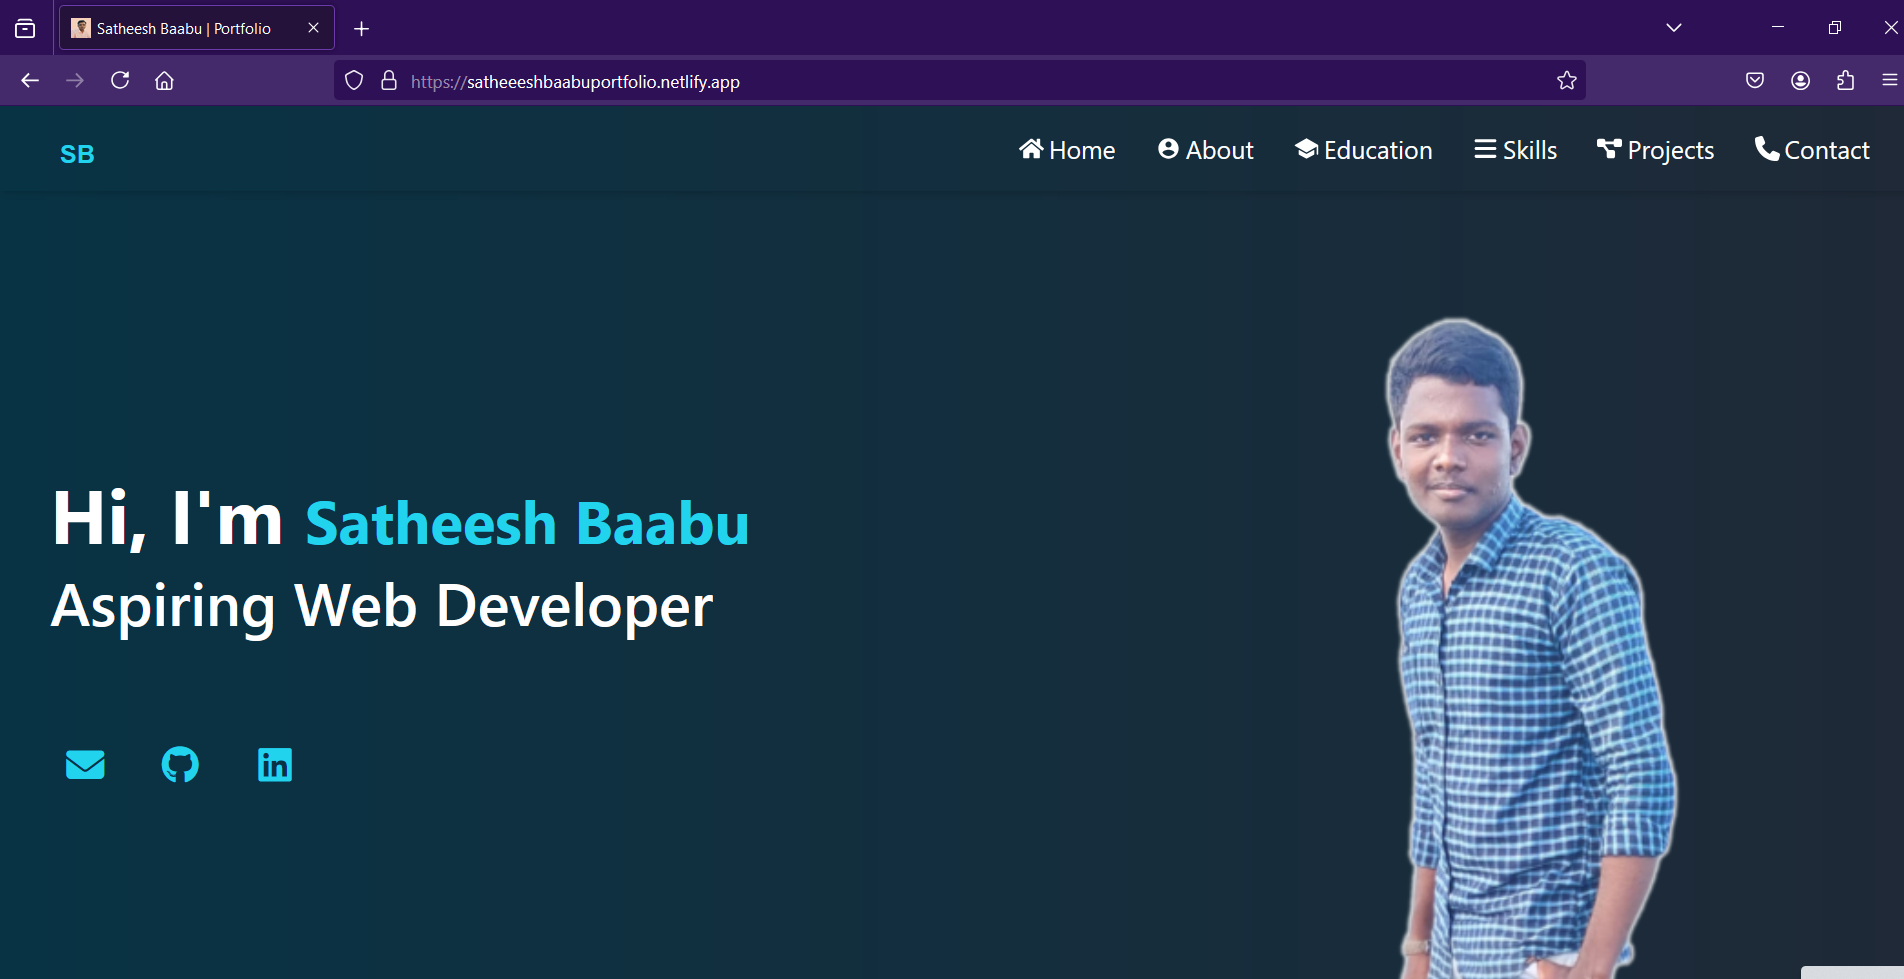
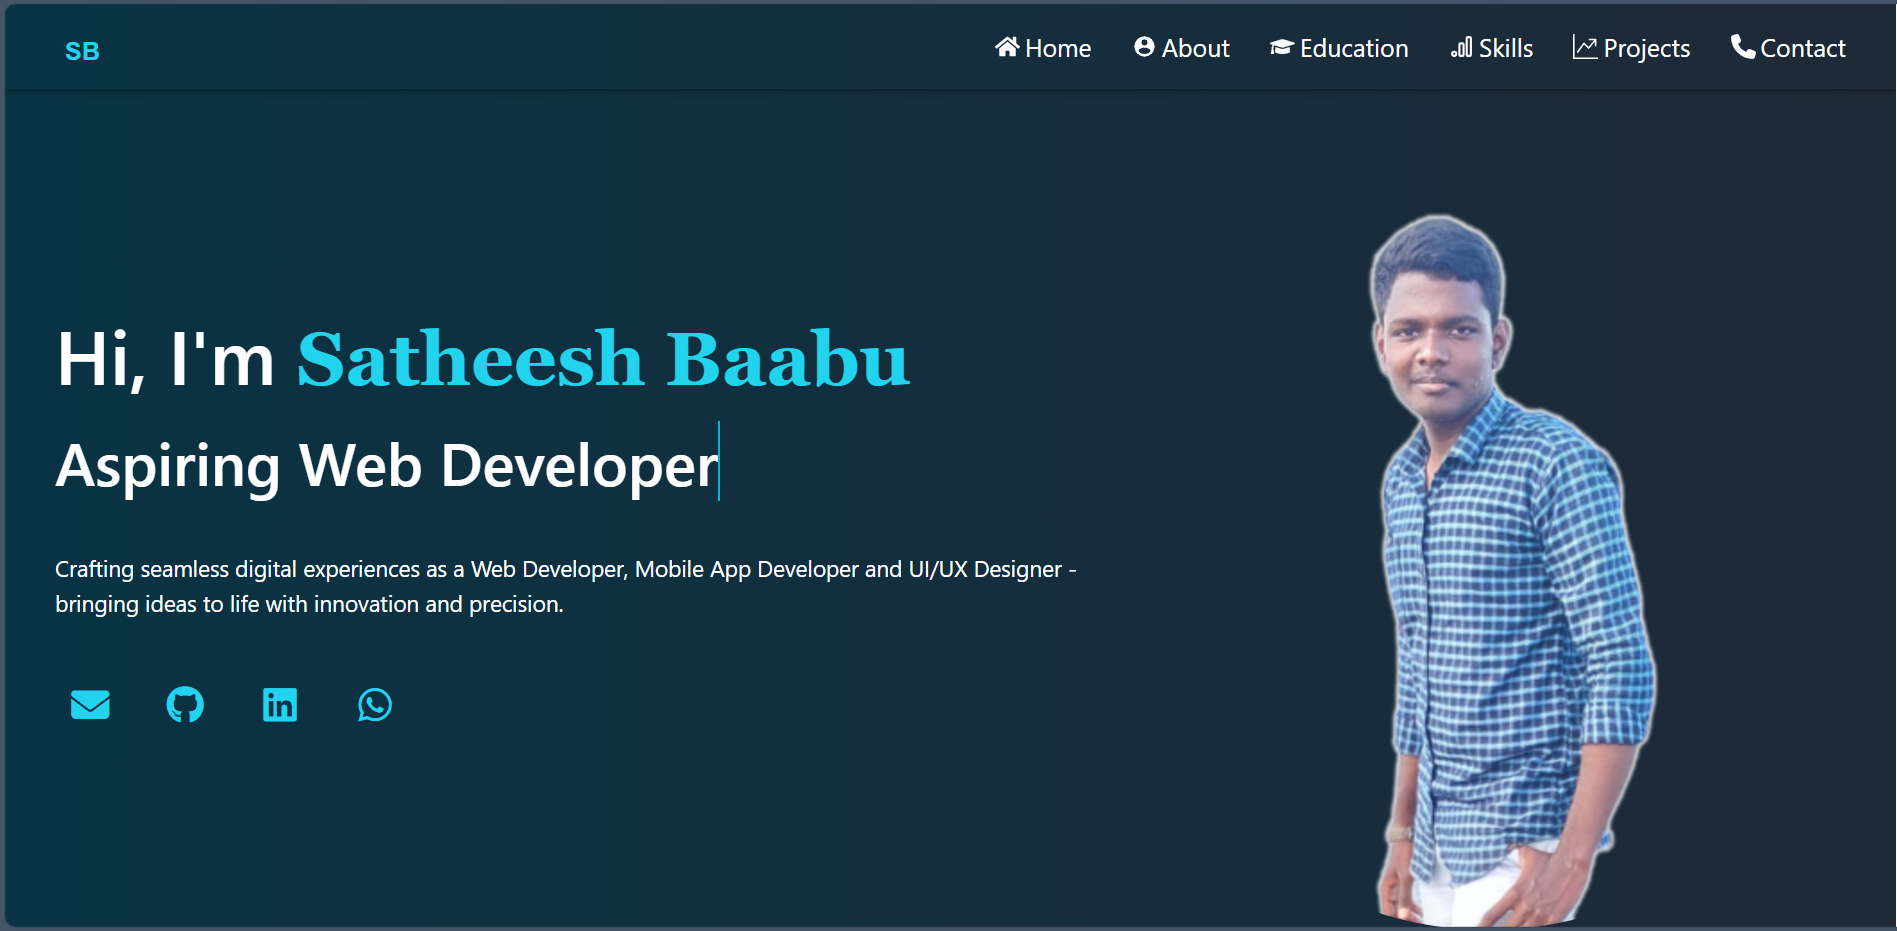
Content changes

diff --git a/src/Components/ImageCard.jsx b/src/Components/ImageCard.jsx
@@ -13,28 +13,34 @@ function ImageCard(data) {
     };
 
     return (
-        <>
-        <div
-            className={`bg-transparent shadow-md rounded-lg overflow-hidden relative border border-gray-800 ${isHovered ? 'scale-105 ease-in-out duration-100' : ''
-                }`}
-            onMouseEnter={handleMouseEnter}
-            onMouseLeave={handleMouseLeave}
-        >
-            <div className={`${isHovered ? 'opacity-20  ' : ''}`}>
-            <img src={data.image} alt="Image" className="object-contain lg:h-full h-60 w-full" />
-            </div>
-            <div className={`absolute bottom-0 left-0 pt-10 lg:pt-7 xl:pt-28 w-full h-full p-4 bg-gradient-to-t from-cyan-500 to-transparent text-white ${isHovered ? 'animate-bottom opacity-100 ease-in-out duration-1000' : 'opacity-0'}`}>
-            
-                <p className="md:text-md lg:text-xl text-md">{data.description}</p>
-                <div className="flex my-5">
-                    <a href={data.demoLink} className="text-lg text-cyan-100 mr-4 hover:underline"><i className="fa-solid fa-link"></i> Demo Link </a>
-                    <a href={data.githubLink} className="text-lg text-cyan-100 mr-4 hover:underline"><i className="fa-brands fa-github"></i> Github</a>
+        <div className=''>
+            <div
+                className={`bg-transparent shadow-md rounded-lg overflow-hidden relative border border-gray-800 ${isHovered ? 'scale-105 ease-in-out duration-100' : ''
+                    }`}
+                onMouseEnter={handleMouseEnter}
+                onMouseLeave={handleMouseLeave}>
+                <div className={`${isHovered ? 'opacity-20' : ''}`}>
+                    <img src={data.image} alt="Image" className="object-contain lg:h-full h-60 w-full" />
                 </div>
-                <h2 className="md:text-4xl xl:text-5xl text-2xl sm:text-3xl font-bold">{data.title}</h2>
+                <div className={`absolute bottom-0 left-0 pt-10 lg:pt-7 xl:pt-28 w-full h-full p-4 bg-gradient-to-t from-cyan-500 to-transparent text-white ${isHovered ? 'animate-bottom opacity-100 ease-in-out duration-1000' : 'opacity-0'}`}>
+
+                    <p className="md:text-md lg:text-xl text-md">{data.description}</p>
+                    <div className="flex my-5">
+                        <a href={data.demoLink} target='_blank' className="text-lg text-cyan-100 mr-4 hover:underline"><i className="fa-solid fa-link"></i> Demo Link </a>
+                        <a href={data.githubLink} target='_blank'  className="text-lg text-cyan-100 mr-4 hover:underline"><i className="fa-brands fa-github"></i> Github</a>
+                    </div>
+                    <h2 className="md:text-4xl xl:text-5xl text-2xl sm:text-3xl font-bold">{data.title}</h2>
+                </div>
             </div>
-            {/* <h2 className="text-lg font-bold text-center p-5">{data.title}</h2> */}
+            <div>
+                <div className={`${isHovered ? 'hidden' : 'text-3xl font-bold text-white mt-2 "'}`}>{data.title}</div>
+                <div className="flex flex-wrap gap-2 mt-4">
+                    {data.tech.map((tag, index) => (
+                    <span key={index} className="text-sm bg-gray-800 text-gray-300 px-3 py-1 rounded-full">{tag}</span>))
+                    }
+                </div> 
+            </div>
         </div>
-        </>
     );
 }
 

diff --git a/src/pages/About.jsx b/src/pages/About.jsx
@@ -3,7 +3,7 @@ import Profile from '../assets/SatheeshBaabu.png'
 import Button from '../Components/Button'
 function About() {
     return (
-        <div className='px-12 bg-gradient-to-r from-cyan-950 to-gray-800 md:h-max w-full pt-10' id="about">
+        <div className='px-12 bg-gradient-to-r from-cyan-950 to-gray-800 md:h-max w-full md:pt-20 ' id="about">
             <div className='md:hidden pt-10'>
             <h1 className='text-4xl mb-10 font-medium font-serif text-cyan-400'>About <span className='text-white'>ME</span></h1>
             </div>
@@ -19,7 +19,12 @@ function About() {
                     <h1 className='text-5xl mb-10 font-medium font-serif text-cyan-400 md:block hidden'>About <span className='text-white'>ME</span></h1>
 
                     {/* <h1 className='text-5xl text-cyan-400 md:block hidden mb-10'>About Me</h1> */}
-                    <p className='text-white text-justify indent-20 mb-10'>Lorem ipsum dolor sit, amet consectetur adipisicing elit. Dolor voluptas odio nulla facere, repellat consequuntur hic. Totam unde maxime iusto eveniet libero. Error non rem commodi nam odio ab hic. Lorem ipsum dolor sit, amet consectetur adipisicing elit. Fuga enim, rerum dolores eum eligendi inventore et beatae, excepturi in cum facilis repellendus iste praesentium magnam aut asperiores, ipsam fugiat hic. Lorem ipsum dolor sit amet consectetur, adipisicing elit. Harum reiciendis, sapiente possimus hic in omnis, tempora fuga minus iure velit consectetur, fugiat quas eaque reprehenderit natus ad sed unde maiores.</p>
+                    <p className='text-white text-justify indent-20 '>Hello, I’m Satheesh Baabu, an aspiring Web Developer with a passion for crafting functional and visually engaging digital solutions. I am currently pursuing final year<b className='text-lg'> B.Sc  Computer Science</b> at Ayya Nadar Janaki Ammal College, Sivakasi, and have gained hands-on experience through internships and projects that have sharpened my technical and collaborative skills.</p>
+                    <h1 className='text-white text-lg'>My Journey :</h1>
+                    <p className='text-white text-justify indent-20 mb-3'>My academic journey began with strong foundations in programming and problem-solving, as reflected in my achievements in<b> SSLC (84%)</b> and <b>HSC (92%)</b>. Alongside formal education, I completed a Diploma in Computer Hardware and honed my skills in web development.</p>
+                    <p className='text-white text-justify indent-20 mb-3'>I specialize in front-end and back-end development using HTML, CSS, JavaScript, C, Java and the<b> MERN stack (MongoDB, Express.js, React.js, Node.js)</b>. I am also skilled in version control systems like Git & GitHub and have experience with databases like MySQL and MongoDB.</p>
+                    <h1 className='text-white text-lg'>What Drive Me :</h1>
+                    <p className='text-white text-justify indent-20 mb-10'>I am deeply motivated to collaborate with dynamic teams, contribute to innovative projects, and grow as a developer by learning new technologies. My mission is to build web and mobile applications that make a meaningful impact. Feel free to explore my portfolio and connect with me to know more about my journey and work! 😊</p>
                     <Button content={"Resume >"}/>
                 </div>
             </div>

diff --git a/src/pages/Projects.jsx b/src/pages/Projects.jsx
@@ -3,31 +3,47 @@ import ImageCard from '../Components/ImageCard';
 function Projects() {
   const projectsData = [
     {
+        title: 'Simple Calculator',
+        description: 'Simple Calculator using Javascript.',
+        demoLink: 'https://satheeshbaabucalc.netlify.app/',
+        githubLink: 'https://github.com/Satheesh-Baabu/Simple-Calculator',
+        image: "/Calculator.png",
+        tech:["HTML","CSS","JavaScript"],
+    },
+    {
+      title: 'Old Portfolio',
+      description: 'Building a basic portfolio at the time of learing HTML, CSS and animation effects without responsive layout.',
+      demoLink: 'https://satheeshbaabuportfolio.netlify.app/',
+      githubLink: 'https://github.com/Satheesh-Baabu/portfolio-old',
+      image:"/oldportfolilo.png" ,
+      tech:["HTML","CSS","Animation Effects"],
+    },
+    {
       title: 'Portfolio',
       description: 'Explore my accomplished portfolio projects, showcasing expertise and creativity in one click.',
       demoLink: 'https://satheeeshbaabuportfolio.netlify.app/',
       githubLink: 'https://github.com/Satheesh-Baabu/Portfolio/',
       image:"/portfolio.png" ,
+      tech:[
+        "React.js",
+        "Tailwind CSS",
+        "JavaScript","Responsive"
+    ],
     },
     {
-      title: 'Website V Print Tech',
-      description: 'Discover my expertise in one click with the website for the V Print Tech Company.',
+      title: 'V Print Tech Website',
+      description: `"V Print Tech" is a printing offset website developed using the MERN stack in collaboration with Sudhakar.`,
       demoLink: 'https://vprinttech.netlify.app/',
       githubLink: 'https://github.com/Satheesh-Baabu/InternshipFrontend/',
       image: "/vprint.png",
+      tech:["React.js","Node.js","Express.js","MongoDB","Tailwind CSS"]
     },
-    // {
-    //   title: 'Calculator',
-    //   description: 'Discover my expertise in one click with my weather app, showcasing creativity and skill in delivering accurate forecasts.',
-    //   demoLink: 'https://vprinttech.netlify.app/',
-    //   githubLink: 'https://github.com/Satheesh-Baabu/InternshipFrontend/',
-    //   image: "/vprint.png",
-    // },
+  
     // Add more projects here
   ];
   return (
     <div id="projects" className='h-max bg-gradient-to-r from-cyan-950 to-gray-800 w-full pt-10 px-12'>
-      <h1 className='text-4xl md:text-5xl pb-10 font-medium font-serif text-white pt-12'>My Projects</h1>
+      <h1 className='text-4xl md:text-5xl pb-10 font-medium font-serif text-white pt-12'><span className='text-cyan-500'>My</span> Projects</h1>
       <div className="grid gap-7 grid-cols-1 lg:grid-cols-2">
             {projectsData.map((project) => (
               <ImageCard key={project.title} {...project}/>

diff --git a/src/Components/EducationField.jsx b/src/Components/EducationField.jsx
@@ -33,8 +33,7 @@ const EducationField = () => {
                                     S.H.N.V. Matriculation Higher Secondary School, Sivakasi.
                                 </p>
                                 <p className="text-gray-100 mb-4">
-                                    Completed my Secondary School with 85%.
-                                </p>
+                                Successfully completed with an <b>84%</b> score, building a strong foundation in academics and problem-solving skills                                </p>
                             </div>
 
                         </div>
@@ -64,7 +63,7 @@ const EducationField = () => {
                             S.H.N.V. Matriculation Higher Secondary School, Sivakasi.
                         </p>
                         <p className="text-gray-100 mb-4">
-                            Completed my High Secondary School with Major in Computer Science, Maths, Physics and Chemistry.
+                        Accomplished higher secondary studies with <b>92%</b>, excelling in core subjects like <b>Computer Science, Mathematics, Physics, and Chemistry</b>, highlighting a passion for technology and science.
                         </p>
 
                     </div>
@@ -85,7 +84,7 @@ const EducationField = () => {
                     <div className="absolute border-t-2 w-10 right-0 top-[50%] border-cyan-500 md:block hidden" />
                     <div className="flex justify-center align-center  h-full hover:scale-105 ease-out duration-500">
                         <img
-                            src="/collegeq.svg" // replace with your image path
+                            src="/collegeq.svg" 
                             alt="Noimage"
                             className="rounded-lg" width={500}
                         />
@@ -103,7 +102,7 @@ const EducationField = () => {
                                 Ayya Nadar Janaki Ammal College, Sivakasi.
                                 </p>
                                 <p className="text-gray-100 mb-4">
-                                Pursuing a Bachelor’s degree in Computer Science, specializing in software engineering and development.
+                                Currently pursuing a Bachelor’s degree in Computer Science, gaining expertise in programming, algorithms, data structures, and modern technologies to build innovative solutions.
                                 </p>
                             </div>
 

diff --git a/src/pages/Skills.jsx b/src/pages/Skills.jsx
@@ -5,13 +5,19 @@ function Skills() {
   const skillsdata = [
     {
       title: 'Programming Languages & Scripts',
-      image:["/html.svg","/css.svg","/js.svg","/java.svg",] ,
-      names:["HTML","CSS","JavaScript","Java"],
+      image:["c.svg","/java.svg","/html.svg","/css.svg","/js.svg",] ,
+      names:["C","Java","HTML","CSS","JavaScript",],
     },
     {
       title: 'Frameworks and Libraries',
       image: ["/react.svg","/expressjs.svg","/nodejs.svg","tailwind-css.svg"],
       names:["React.js","Express.js","Node.js","TailwindCSS"],
+
+    },
+    {
+      title: 'App Development',
+      image: ["/reactnative.png"],
+      names:["React Native"],
 
     },
     {
@@ -22,15 +28,15 @@ function Skills() {
     {
       title:"Version Control Tools",
       image:["/git.svg","/github1.svg"],
-      names:["HTML","CSS","JavaScript","Java"],
+      names:["Git","Github"],
  
     }
   ];
   return (
     <div id="skills" className='h-full bg-gradient-to-r from-cyan-950 to-gray-800 w-full pt-10 px-12 md:flex flex-col justify-center items-center'>
       <h1 className='text-4xl md:text-5xl pb-10 font-medium font-serif text-white pt-12'>Skills</h1>
-      {skillsdata.map((skills) => (
-              <SkillsComp key={skills.title} {...skills}/>
+      {skillsdata.map((skills,index) => (
+              <SkillsComp key={index} {...skills}/>
             ))}
     </div>
 )

diff --git a/src/Components/Navbar.jsx b/src/Components/Navbar.jsx
@@ -1,10 +1,12 @@
 import React, { useState } from 'react'
 // import { Link } from 'react-router-dom'
 import './ComponentsCss/Navbar.css'
-import { FaBars,FaDiagramProject,FaPhone } from "react-icons/fa6";
+import { FaBars,FaPhone } from "react-icons/fa6";
 import { IoMdContact } from "react-icons/io";
+import { BsGraphUpArrow } from "react-icons/bs";
 import { FaWindowClose,FaHome} from "react-icons/fa";
-import { IoSchool } from "react-icons/io5";
+import { FaGraduationCap } from "react-icons/fa";
+import { TbBrandGoogleAnalytics } from "react-icons/tb"
 import AnchorLink from "react-anchor-link-smooth-scroll";
 
 
@@ -12,9 +14,9 @@ function Navbar() {
   let Links = [
     { icon: <FaHome />, name: "Home", linkname: "#home" },
     { icon: <IoMdContact />, name: "About", linkname: "#about" },
-    {icon:<IoSchool />,name:"Education", linkname:"#education"},
-    {icon:<FaBars/>,name:"Skills", linkname:"#skills"},
-    {icon:<FaDiagramProject />,name:"Projects", linkname:"#projects"},
+    {icon:<FaGraduationCap />,name:"Education", linkname:"#education"},
+    {icon:<TbBrandGoogleAnalytics />,name:"Skills", linkname:"#skills"},
+    {icon:<BsGraphUpArrow />,name:"Projects", linkname:"#projects"},
     { icon: <FaPhone />, name: "Contact", linkname: "#contact" }
 ];
 let [open, setopen] = useState(false)

diff --git a/src/pages/Home.jsx b/src/pages/Home.jsx
@@ -22,8 +22,8 @@ function Home() {
             <h1 className='text-white md:text-6xl sm:text-4xl text-4xl font-semibold'>Hi, I'm <span className='text-cyan-400 text-4xl sm:text-6xl font-bold font-serif'>Satheesh Baabu</span></h1>
             <h3 className='text-white md:text-5xl sm:text-4xl text-4xl mt-4 font-semibold'><Typewriter phrases={["Web Developer","MERN Stack Developer","Full Stack Developer","App Developer"
             ]} period={1500}/></h3>
-            <p className='text-white mt-9 md:text-lg'>I'm a passionate UI/UX designer with a mission to create delightful and intuitive digital experiences. </p> 
-            <ContactButtons btnprop={"sm:mt-10 mt-5 mr-5"}/>
+            <p className='text-white mt-9 md:text-lg'>Crafting seamless digital experiences as a Web Developer, Mobile App Developer and UI/UX Designer - bringing ideas to life with innovation and precision.</p> 
+            <ContactButtons btnprop={"sm:mt-10 mt-5 md:mr-5 mr-3"}/>
              
           </div>
           <div className='basis-1/2  place-items-center'>

diff --git a/src/Components/SkillsComp.jsx b/src/Components/SkillsComp.jsx
@@ -3,12 +3,12 @@ import React from 'react'
 function SkillsComp(props) {
   return (
     <div className='pb-5'>
-        <h1 className='text-3xl text-cyan-400 font-medium drop-shadow-xl inline'>{props.title}</h1>
-        <div className='flex  '>
+        <h1 className='text-3xl text-cyan-400 font-medium drop-shadow-xl md:text-center'>{props.title}</h1>
+        <div className='flex md:justify-center'>
             {props.image.map((imglinks,index) => (
-              <div className='w-20 mr-5 shadow-xl hover:shadow-cyan-500 mt-3 text-center'>
-              <img src={imglinks}  key={index} className=' pt-2 '/>
-              <p className='text-white text-center pt-2'>{props.names[index]}</p>
+              <div className='w-20 mr-5 shadow-xl hover:shadow-cyan-500 mt-3 text-center' key={index}>
+                <img src={imglinks}   className=' pt-2 '/>
+                <p className='text-white text-center pt-2'>{props.names[index]}</p>
               </div>
             ))}
         </div>

diff --git a/src/Components/Button.jsx b/src/Components/Button.jsx
@@ -4,7 +4,7 @@ function Button(props) {
   return (
     <>
     {/* <button className='w-28 text-white bg-cyan-400 p-2 rounded-3xl border border-cyan-400 transition-all duration-300 ease-in-out hover:text-cyan-400 hover:bg-transparent'>{props.content}</button> */}
-    <a href="" download="SatheeshBaabuResume"><button className="relative px-6 py-3 font-semibold text-white bg-cyan-500 rounded-3xl overflow-hidden group hover:bg-transparent hover:scale-110 ease-in-out duration-700 group">
+    <a href=""><button className="relative px-6 py-3 font-semibold text-white bg-cyan-500 rounded-3xl overflow-hidden group hover:bg-transparent hover:scale-110 ease-in-out duration-700 group">
       <span className="relative z-10">{props.content}</span>
       <span className="absolute left-0 top-0 h-full w-full bg-cyan-400  transition-transform duration-700 ease-in-out transform -translate-x-full group-hover:translate-x-0"></span>
     </button></a>

diff --git a/src/Components/ContactButtons.jsx b/src/Components/ContactButtons.jsx
@@ -7,6 +7,8 @@ function ContactButtons(props) {
         <button className={sty}><a href="mailto:satheeshbaabum@gmail.com?subject=Mail%20from%20Portfolio"><i className="fa-solid fa-envelope"></i></a></button>
         <button className={sty}><a href='https://github.com/Satheesh-Baabu/' target="_blank"><i className="fa-brands fa-github"></i></a></button>
         <button className={sty}><a href='https://www.linkedin.com/in/satheeshbaabum/' target="_blank"><i className="fa-brands fa-linkedin"></i></a></button>
+        
+        <button className={sty}><a href="https://api.whatsapp.com/send?phone=9360301475&text=Hello" target="_blank"><i className="fa-brands fa-whatsapp"></i></a></button>
     </div>
   )
 }

diff --git a/index.html b/index.html
@@ -2,7 +2,7 @@
 <html lang="en">
   <head>
     <meta charset="UTF-8" />
-    <link rel="icon" type="image/svg+xml" href="./src/assets/SatheeshPhotoOrange.png" />
+    <link rel="icon" type="image/svg+xml" href="./sb_logo.png" />
     <meta name="viewport" content="width=device-width, initial-scale=1.0" />
     <title>Satheesh Baabu | Portfolio</title>
     <meta name="description" content="Welcome to Satheesh Baabu Web Portfolio">

diff --git a/src/pages/Contact.jsx b/src/pages/Contact.jsx
@@ -83,7 +83,7 @@ function Contact() {
       </div>
       <div className='flex flex-col place-items-center w-full mb-10'>
         <h1 className='text-4xl md:text-5xl mb-10 font-medium font-serif text-white pt-12'>Let's <span className='text-cyan-500'>Connect!</span></h1>
-        <ContactButtons mxprop={"mx-5"} />
+        <ContactButtons mxprop={"mx-2"} />
       </div>
       <Developer />
     </div>
